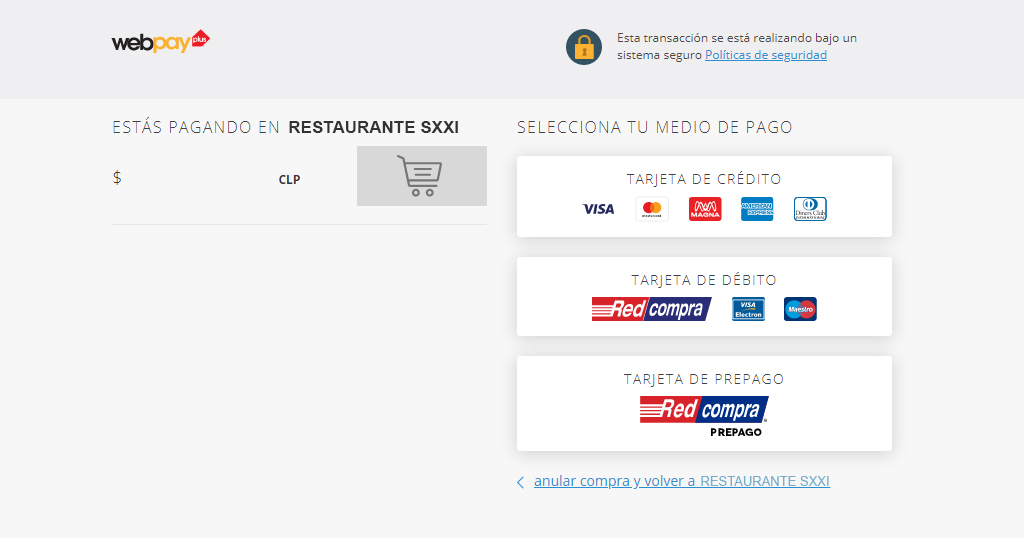
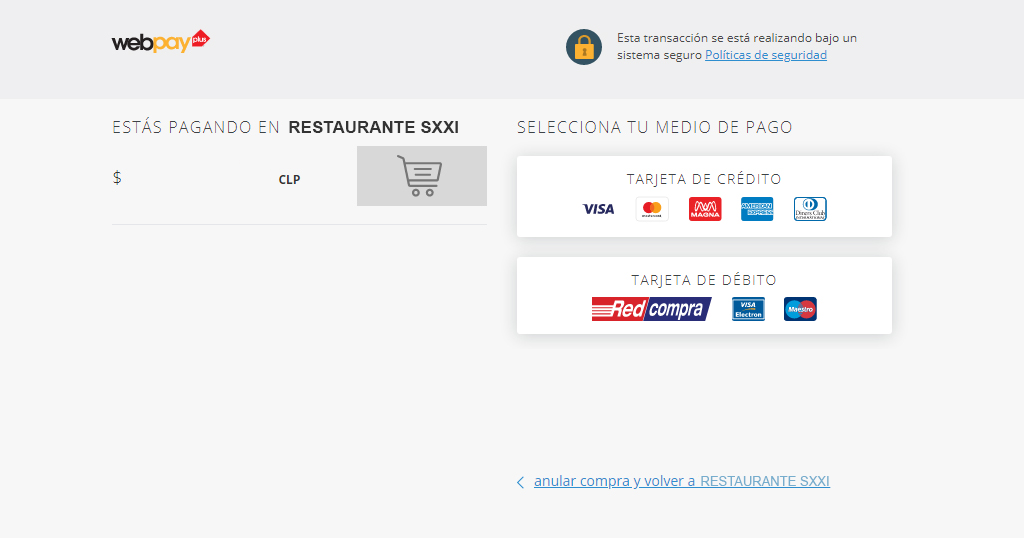
guardar credito o debito segun seleccion vista transbank. Ocultar y mostrar boton cerrar cuenta, según corresponda

Changed region(s): [[0.5938, 0.684, 0.7812, 0.8327], [0.5312, 0.5948, 0.8438, 0.6245]]

diff --git a/Restaurant.Web/Content/Site.css b/Restaurant.Web/Content/Site.css
@@ -120,11 +120,13 @@
 
 .monto-transbank {
     font-size: 1.5rem;
+    display: inline-block;
 }
 
 .monto-transbank.pagar {
-    padding-top: 135px;
-    padding-left: 295px;
+    padding-top: 158px;
+    padding-left: 135px;
+    width:240px;
 }
 
 .monto-transbank.pagado {
@@ -132,10 +134,30 @@
     padding-left: 135px;
 }
 
+.metodo-pago-credito {
+    display: inline-block;
+    width: 377px;
+    height: 80px;
+    margin-left: 275px;
+    margin-bottom: -50px;
+    background: transparent;
+    border: transparent;
+}
+
+.metodo-pago-debito {
+    margin-left: 520px;
+    width: 375px;
+    height: 80px;
+    display: block;
+    margin-top: 62px;
+    background: transparent;
+    border: transparent;
+}
+
 .fecha-transbank {
-    padding-left: 830px;
+    padding-left: 650px;
     padding-top: 155px;
-    font-weight: 600;
+    font-weight: 800;
     font-size: 0.7rem;
     color: #5f5c6b;
     font-family: helvetica;

diff --git a/Restaurant.Web/Paginas/Autoservicio/GestionAutoservicio.aspx.cs b/Restaurant.Web/Paginas/Autoservicio/GestionAutoservicio.aspx.cs
@@ -16,6 +16,7 @@ namespace Restaurant.Web.Paginas.Autoservicio
         private ArticuloPedidoService _articuloPedidoService;
         private ArticuloService _articuloService;
         private TipoDocumentoPagoService _tipoDocumentoPagoService;
+        private DocumentoPagoService _documentoPagoService;
 
         protected void Page_Load(object sender, EventArgs e)
         {
@@ -34,7 +35,6 @@ namespace Restaurant.Web.Paginas.Autoservicio
                     pedidoCliente = pedidos.FirstOrDefault(x => x.IdEstadoPedido != EstadoPedido.cancelado
                                                              && x.Reserva.Id == reserva.Id
                                                              && x.FechaHoraInicio.Date == DateTime.Now.Date);
-
                     if (pedidoCliente != null)
                     {
 
@@ -63,9 +63,19 @@ namespace Restaurant.Web.Paginas.Autoservicio
                     if (pedidoCliente != null)
                     {
                         btnHacerPedido.Visible = false;
-                        if (pedidoCliente.IdEstadoPedido == EstadoPedido.enCurso)
+                        if (pedidoCliente.IdEstadoPedido == EstadoPedido.enCurso
+                            || pedidoCliente.IdEstadoPedido == EstadoPedido.cerradoConTarjeta
+                            || (pedidoCliente.IdEstadoPedido == EstadoPedido.cerradoMixto && ! PagoTarjetaListo(pedidoCliente.Id)))
                         {
                             btnCerrarCuenta.Visible = true;
+                        }
+
+                        if (pedidoCliente.IdEstadoPedido != EstadoPedido.enCurso)
+                        {
+                            tabMenu.Attributes.Add("class", "nav-link d-none");
+                            divMenu.Attributes.Add("class", "tab-pane fade d-none");
+                            tabMiOrden.Attributes.Add("class", "nav-link active");
+                            divMiOrden.Attributes.Add("class", "tab-pane active show");
                         }
                         //listaArticulosPedido.FindControl("btnEliminarArticulo").Visible = false;
                     }
@@ -471,10 +481,13 @@ namespace Restaurant.Web.Paginas.Autoservicio
 
         protected void generarPago(int estadoPedido)
         {
+            tabMenu.Attributes.Add("class", "nav-link d-none");
+            divMenu.Attributes.Add("class", "tab-pane fade d-none");
             validarIngreso();
             Page.Validate("ValidacionTipoDocumento");
             if (!Page.IsValid)
             {
+                upModalCerrarCuenta.Update();
                 return;
             }
             if (ddlTipoDocumentoPago.SelectedValue == "")
@@ -543,6 +556,7 @@ namespace Restaurant.Web.Paginas.Autoservicio
             Page.Validate("ValidacionMontoPago");
             if(!Page.IsValid)
             {
+                upModalPagoMixto.Update();
                 return;
             }
             ScriptManager.RegisterStartupScript(Page, Page.GetType(), "modalCerrarCuenta", "$('#modalPagoMixto').modal('hide');", true);
@@ -583,6 +597,18 @@ namespace Restaurant.Web.Paginas.Autoservicio
             }
         }
 
+        public bool PagoTarjetaListo(int idPedido)
+        {
+            Token token = (Token)Session["token"];
+            _documentoPagoService = new DocumentoPagoService(token.access_token);
+            List<DocumentoPago> listaDocumentoPago = _documentoPagoService.Obtener();
+            DocumentoPago documentoPago = listaDocumentoPago.FirstOrDefault(x => x.IdPedido == idPedido && x.IdTipoDocumentoPago != MedioPago.efectivo);
+            if(documentoPago == null)
+            {
+                return false;
+            }
+            return true;
+        }
         public void actualizarRepeater<T>(Repeater repeater, List<T> listaData, Label mensajeListaVacia)
         {
             repeater.DataSource = listaData;

diff --git a/Restaurant.Web/Paginas/Mantenedores/GestionRestaurante.aspx.cs b/Restaurant.Web/Paginas/Mantenedores/GestionRestaurante.aspx.cs
@@ -34,20 +34,23 @@ namespace Restaurant.Web.Paginas.Mantenedores
                 List<Reserva> reservas = _reservaService.Obtener();
                 if (reservas != null && reservas.Count > 0)
                 {
-                    actualizarRepeater(listaReservas, reservas, listaReservasVacia);
+                    var reservasOrdenadas = reservas.OrderByDescending(x => x.FechaReserva).ToList();
+                    actualizarRepeater(listaReservas, reservasOrdenadas, listaReservasVacia);
                 }
 
                 List<Cliente> clientes = _clienteService.Obtener();
                 if (clientes != null && clientes.Count > 0)
                 {
-                    actualizarRepeater(listaClientes, clientes, listaClientesVacia);
+                    var clientesOrdenados = clientes.OrderBy(x => x.Id).ToList();
+                    actualizarRepeater(listaClientes, clientesOrdenados, listaClientesVacia);
                     actualizarDdlClientes(clientes);
                 }
 
                 List<Mesa> mesas = _mesaService.Obtener();
                 if (mesas != null && mesas.Count > 0)
                 {
-                    actualizarRepeater(listaMesas, mesas, listaMesasVacia);
+                    var mesasOrdenadas = mesas.OrderBy(x => x.Id).ToList();
+                    actualizarRepeater(listaMesas, mesasOrdenadas, listaMesasVacia);
                     actualizarDdlMesas(mesas);
                 }
 
@@ -174,7 +177,8 @@ namespace Restaurant.Web.Paginas.Mantenedores
                 List<Reserva> reservas = _reservaService.Obtener();
                 if (reservas != null && reservas.Count > 0)
                 {
-                    actualizarRepeater(listaReservas, reservas, listaReservasVacia);
+                    var reservasOrdenadas = reservas.OrderByDescending(x => x.FechaReserva).ToList();
+                    actualizarRepeater(listaReservas, reservasOrdenadas, listaReservasVacia);
                     upListaReservas.Update();
                 }
                 ScriptManager.RegisterStartupScript(Page, Page.GetType(), "crearReserva", "Swal.fire('Reserva creada', '', 'success');", true);
@@ -205,7 +209,8 @@ namespace Restaurant.Web.Paginas.Mantenedores
                 List<Reserva> reservas = _reservaService.Obtener();
                 if (reservas != null && reservas.Count > 0)
                 {
-                    actualizarRepeater(listaReservas, reservas, listaReservasVacia);
+                    var reservasOrdenadas = reservas.OrderByDescending(x => x.FechaReserva).ToList();
+                    actualizarRepeater(listaReservas, reservasOrdenadas, listaReservasVacia);
                     upListaReservas.Update();
                 }
                 ScriptManager.RegisterStartupScript(Page, Page.GetType(), "editarReserva", "Swal.fire('Reserva editada', '', 'success');", true);

diff --git a/Restaurant.Web/Paginas/Autoservicio/PagoTarjeta.aspx.cs b/Restaurant.Web/Paginas/Autoservicio/PagoTarjeta.aspx.cs
@@ -31,10 +31,24 @@ namespace Restaurant.Web.Paginas.Autoservicio
                 lblMontoPagar.Text = pedido.Total.ToString();
             }
         }
+        protected void btnPagoCredito_Click(object sender, EventArgs e)
+        {
+            int medioPago = MedioPago.credito;
+            Pagar(medioPago);
+        }
 
-        protected void divPagar_Click(object sender, EventArgs e)
+        protected void btnPagoDebito_Click(object sender, EventArgs e)
+        {
+            int medioPago = MedioPago.debito;
+            Pagar(medioPago);
+        }
+        protected void Pagar(int medioPago)
         {
             validarIngreso();
+            if(Session["tipoDocumentoPago"] == null) //No se guardó la info del tipo de pago
+            {
+                Response.Redirect("/Paginas/Autoservicio/GestionAutoservicio.aspx");
+            }
             Pedido pedido = (Pedido)Session["pedidoCliente"];
             
             if (Session["montoTarjeta"] == null) //Pago solo con tarjeta, se completa el pago
@@ -52,12 +66,12 @@ namespace Restaurant.Web.Paginas.Autoservicio
                     ScriptManager.RegisterStartupScript(Page, Page.GetType(), "cerrarCuenta", "Swal.fire('Error al realizar el pago', '', 'error');", true);
                 }
             }
-            crearDocumentoPago(pedido.Id, pedido.Total);
+            crearDocumentoPago(pedido.Id, pedido.Total, medioPago);
             Session["pedidoCliente"] = pedido;
             Response.Redirect("/Paginas/Autoservicio/PagoTarjetaFinalizado.aspx");
         }
 
-        public void crearDocumentoPago(int idPedido, int total)
+        public void crearDocumentoPago(int idPedido, int total, int medioPago)
         {
             DocumentoPago documentoPago= new DocumentoPago();
             documentoPago.IdPedido = idPedido;
@@ -73,7 +87,7 @@ namespace Restaurant.Web.Paginas.Autoservicio
             }
             MedioPagoDocumento medioPagoDocumento = new MedioPagoDocumento();
             medioPagoDocumento.IdDocumentoPago = idDocumentoPago;
-            medioPagoDocumento.IdMedioPago = MedioPago.debito;
+            medioPagoDocumento.IdMedioPago = medioPago;
             medioPagoDocumento.Monto = Convert.ToInt32(lblMontoPagar.Text);
             _medioPagoDocumentoService = new MedioPagoDocumentoService(token.access_token);
             int idMedioPago = _medioPagoDocumentoService.Guardar(medioPagoDocumento);
@@ -89,7 +103,6 @@ namespace Restaurant.Web.Paginas.Autoservicio
             _reservaService = new ReservaService(token.access_token);
             bool editar = _reservaService.ModificarEstado(cambioEstado);
         }
-
         protected void validarIngreso()
         {
             if (Session["reservaCliente"] == null || Session["token"] == null)

diff --git a/Restaurant.Web/Paginas/Autoservicio/PagoTarjeta.aspx.designer.cs b/Restaurant.Web/Paginas/Autoservicio/PagoTarjeta.aspx.designer.cs
@@ -24,15 +24,6 @@ namespace Restaurant.Web.Paginas.Autoservicio
         protected global::System.Web.UI.HtmlControls.HtmlForm form1;
 
         /// <summary>
-        /// divPagar control.
-        /// </summary>
-        /// <remarks>
-        /// Auto-generated field.
-        /// To modify move field declaration from designer file to code-behind file.
-        /// </remarks>
-        protected global::System.Web.UI.WebControls.LinkButton divPagar;
-
-        /// <summary>
         /// lblMontoPagar control.
         /// </summary>
         /// <remarks>
@@ -40,5 +31,23 @@ namespace Restaurant.Web.Paginas.Autoservicio
         /// To modify move field declaration from designer file to code-behind file.
         /// </remarks>
         protected global::System.Web.UI.WebControls.Label lblMontoPagar;
+
+        /// <summary>
+        /// btnPagoCredito control.
+        /// </summary>
+        /// <remarks>
+        /// Auto-generated field.
+        /// To modify move field declaration from designer file to code-behind file.
+        /// </remarks>
+        protected global::System.Web.UI.WebControls.Button btnPagoCredito;
+
+        /// <summary>
+        /// btnPagoDebito control.
+        /// </summary>
+        /// <remarks>
+        /// Auto-generated field.
+        /// To modify move field declaration from designer file to code-behind file.
+        /// </remarks>
+        protected global::System.Web.UI.WebControls.Button btnPagoDebito;
     }
 }

diff --git a/Restaurant.Web/Paginas/Mantenedores/GestionBodega.aspx.cs b/Restaurant.Web/Paginas/Mantenedores/GestionBodega.aspx.cs
@@ -41,7 +41,8 @@ namespace Restaurant.Web.Paginas.Mantenedores
                 List<OrdenProveedor> ordenesProveedor = _ordenProveedorService.Obtener();
                 if (ordenesProveedor != null && ordenesProveedor.Count > 0)
                 {
-                    actualizarRepeater(listaOrdenes, ordenesProveedor, listaOrdenesVacia);
+                    var ordenesProveedorOrdenados = ordenesProveedor.OrderByDescending(x => x.Id).ToList();
+                    actualizarRepeater(listaOrdenes, ordenesProveedorOrdenados, listaOrdenesVacia);
                 }
 
                 List<Proveedor> proveedores = _proveedorService.Obtener();

diff --git a/Restaurant.Web/Paginas/Mantenedores/GestionCocina.aspx.cs b/Restaurant.Web/Paginas/Mantenedores/GestionCocina.aspx.cs
@@ -45,7 +45,8 @@ namespace Restaurant.Web.Paginas.Mantenedores
                 List<Pedido> pedidos = _pedidoService.Obtener();
                 if (pedidos != null && pedidos.Count > 0)
                 {
-                    actualizarRepeater(listaPedidos, pedidos, listaPedidosVacia);
+                    var pedidosOrdenados = pedidos.OrderByDescending(x => x.Id).ToList();
+                    actualizarRepeater(listaPedidos, pedidosOrdenados, listaPedidosVacia);
                 }
 
                 List<Articulo> articulos = _articuloService.Obtener();
